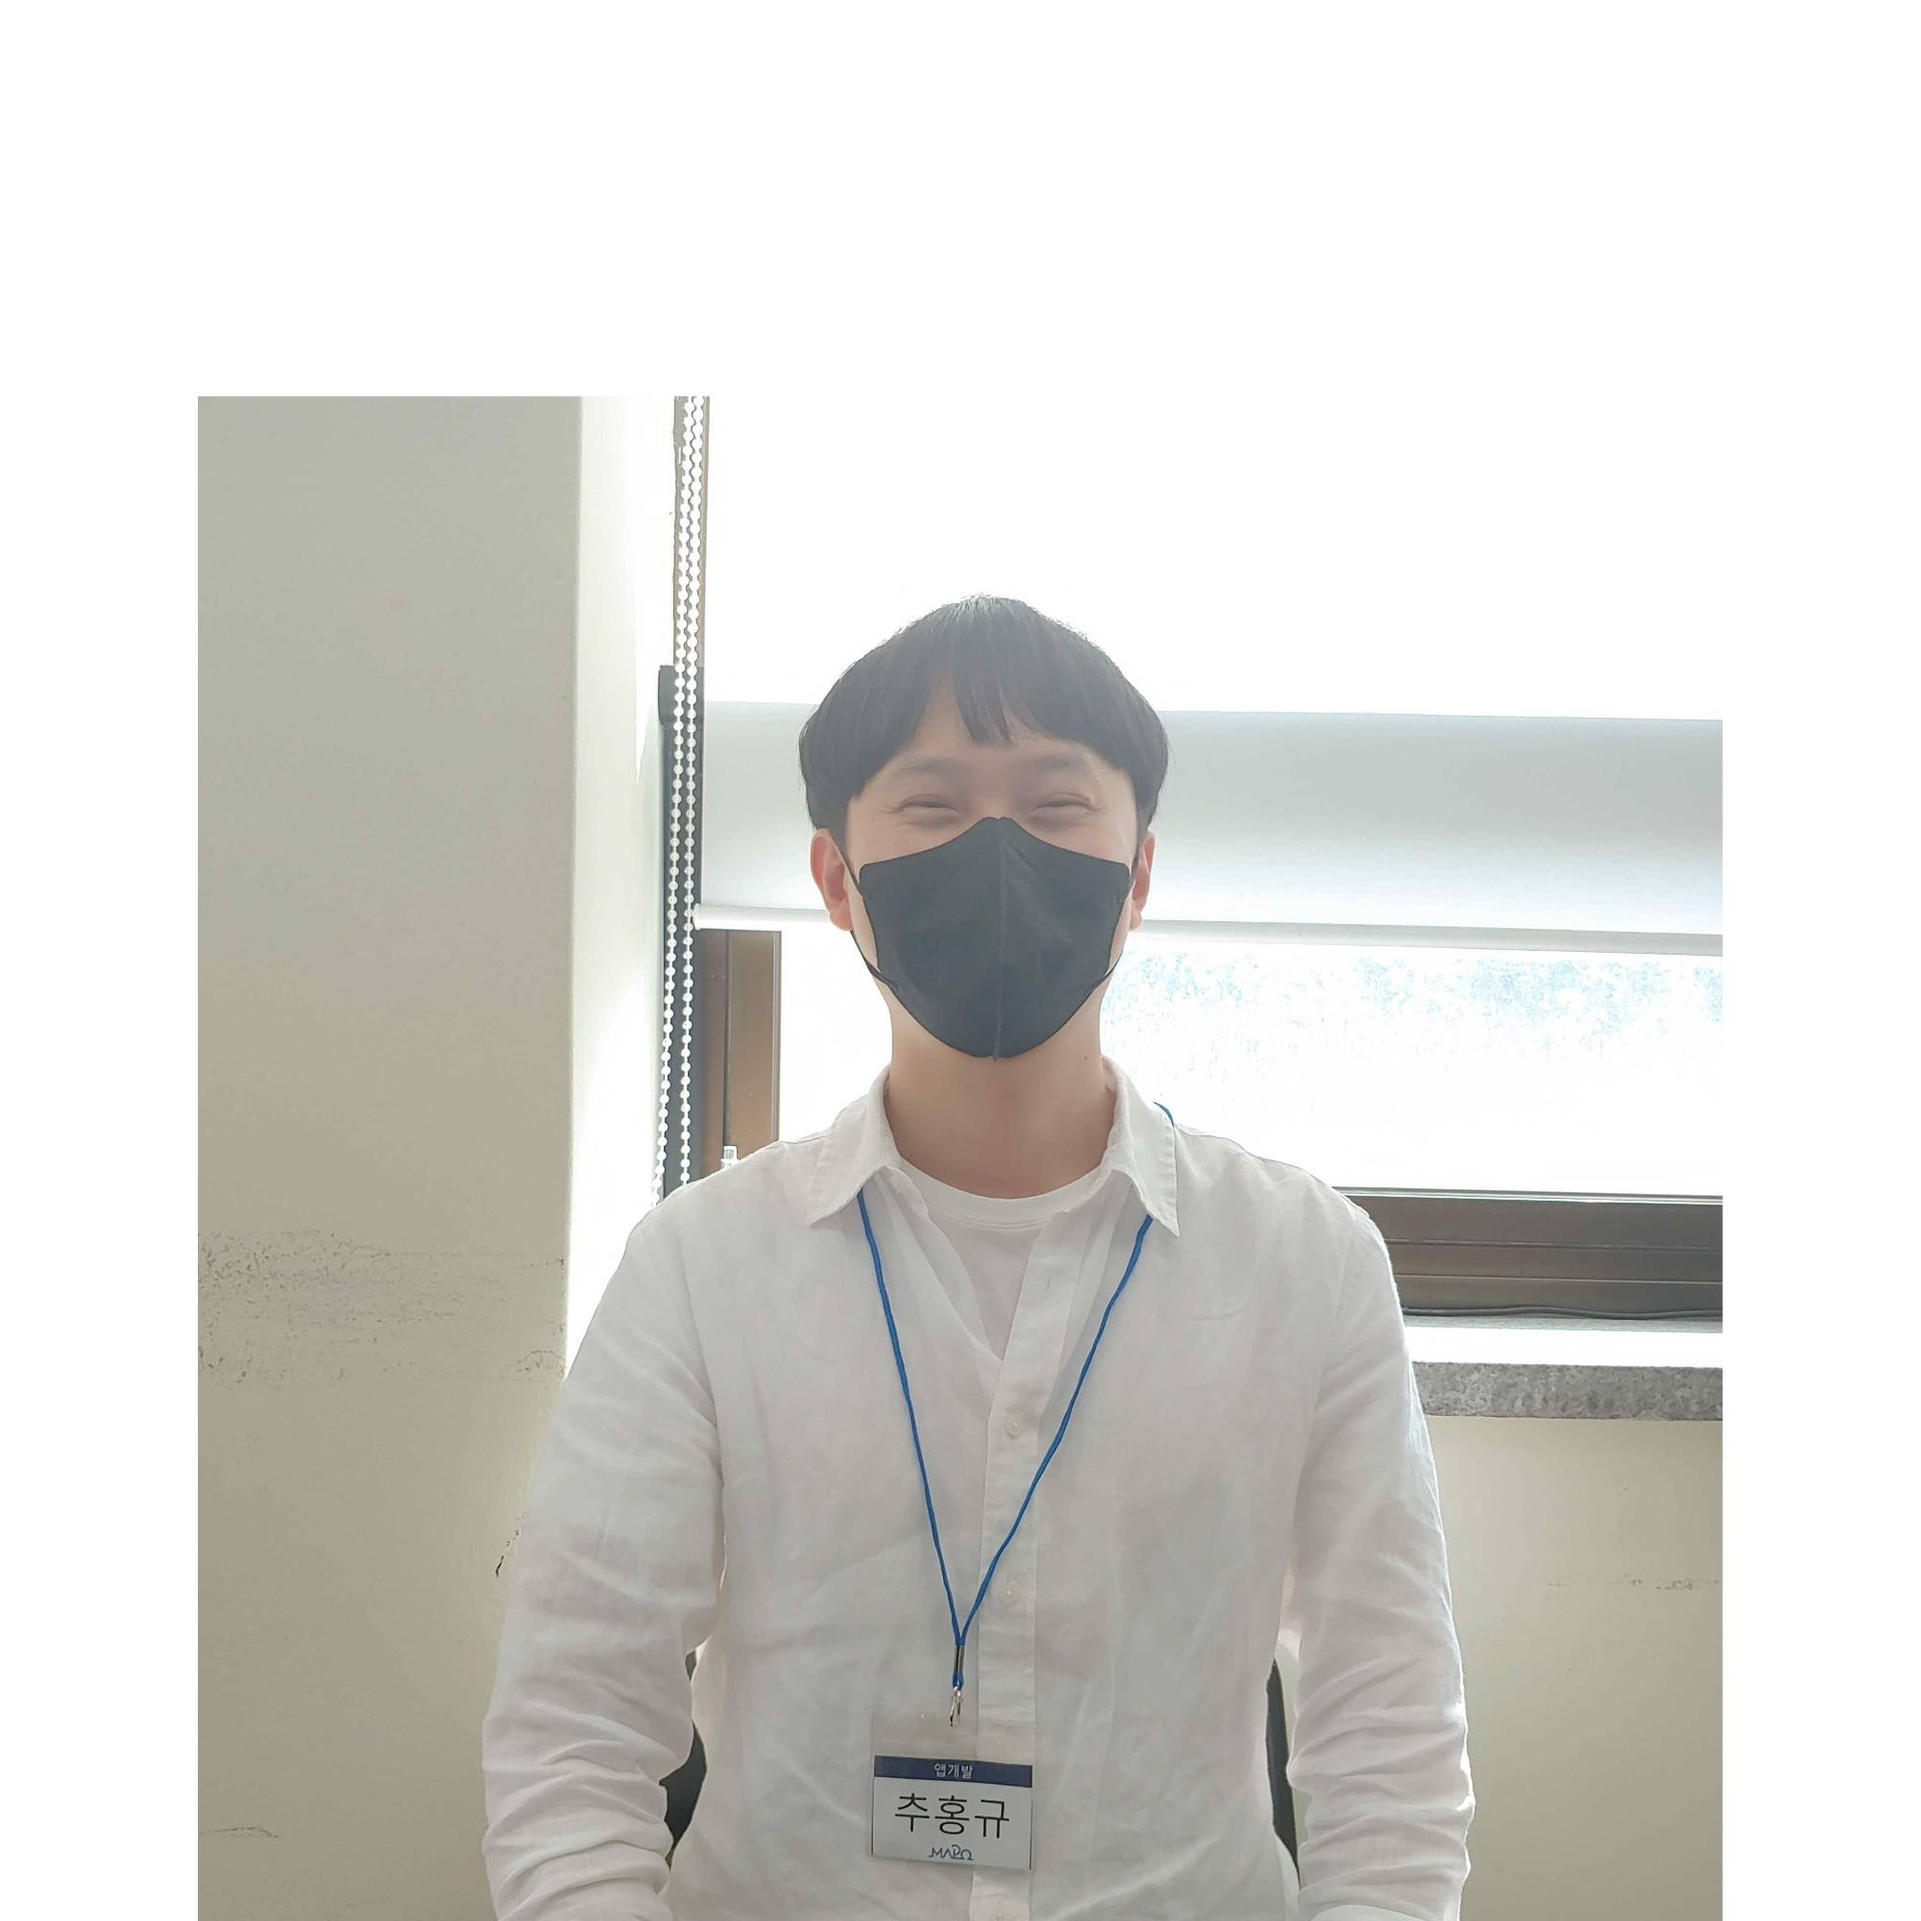
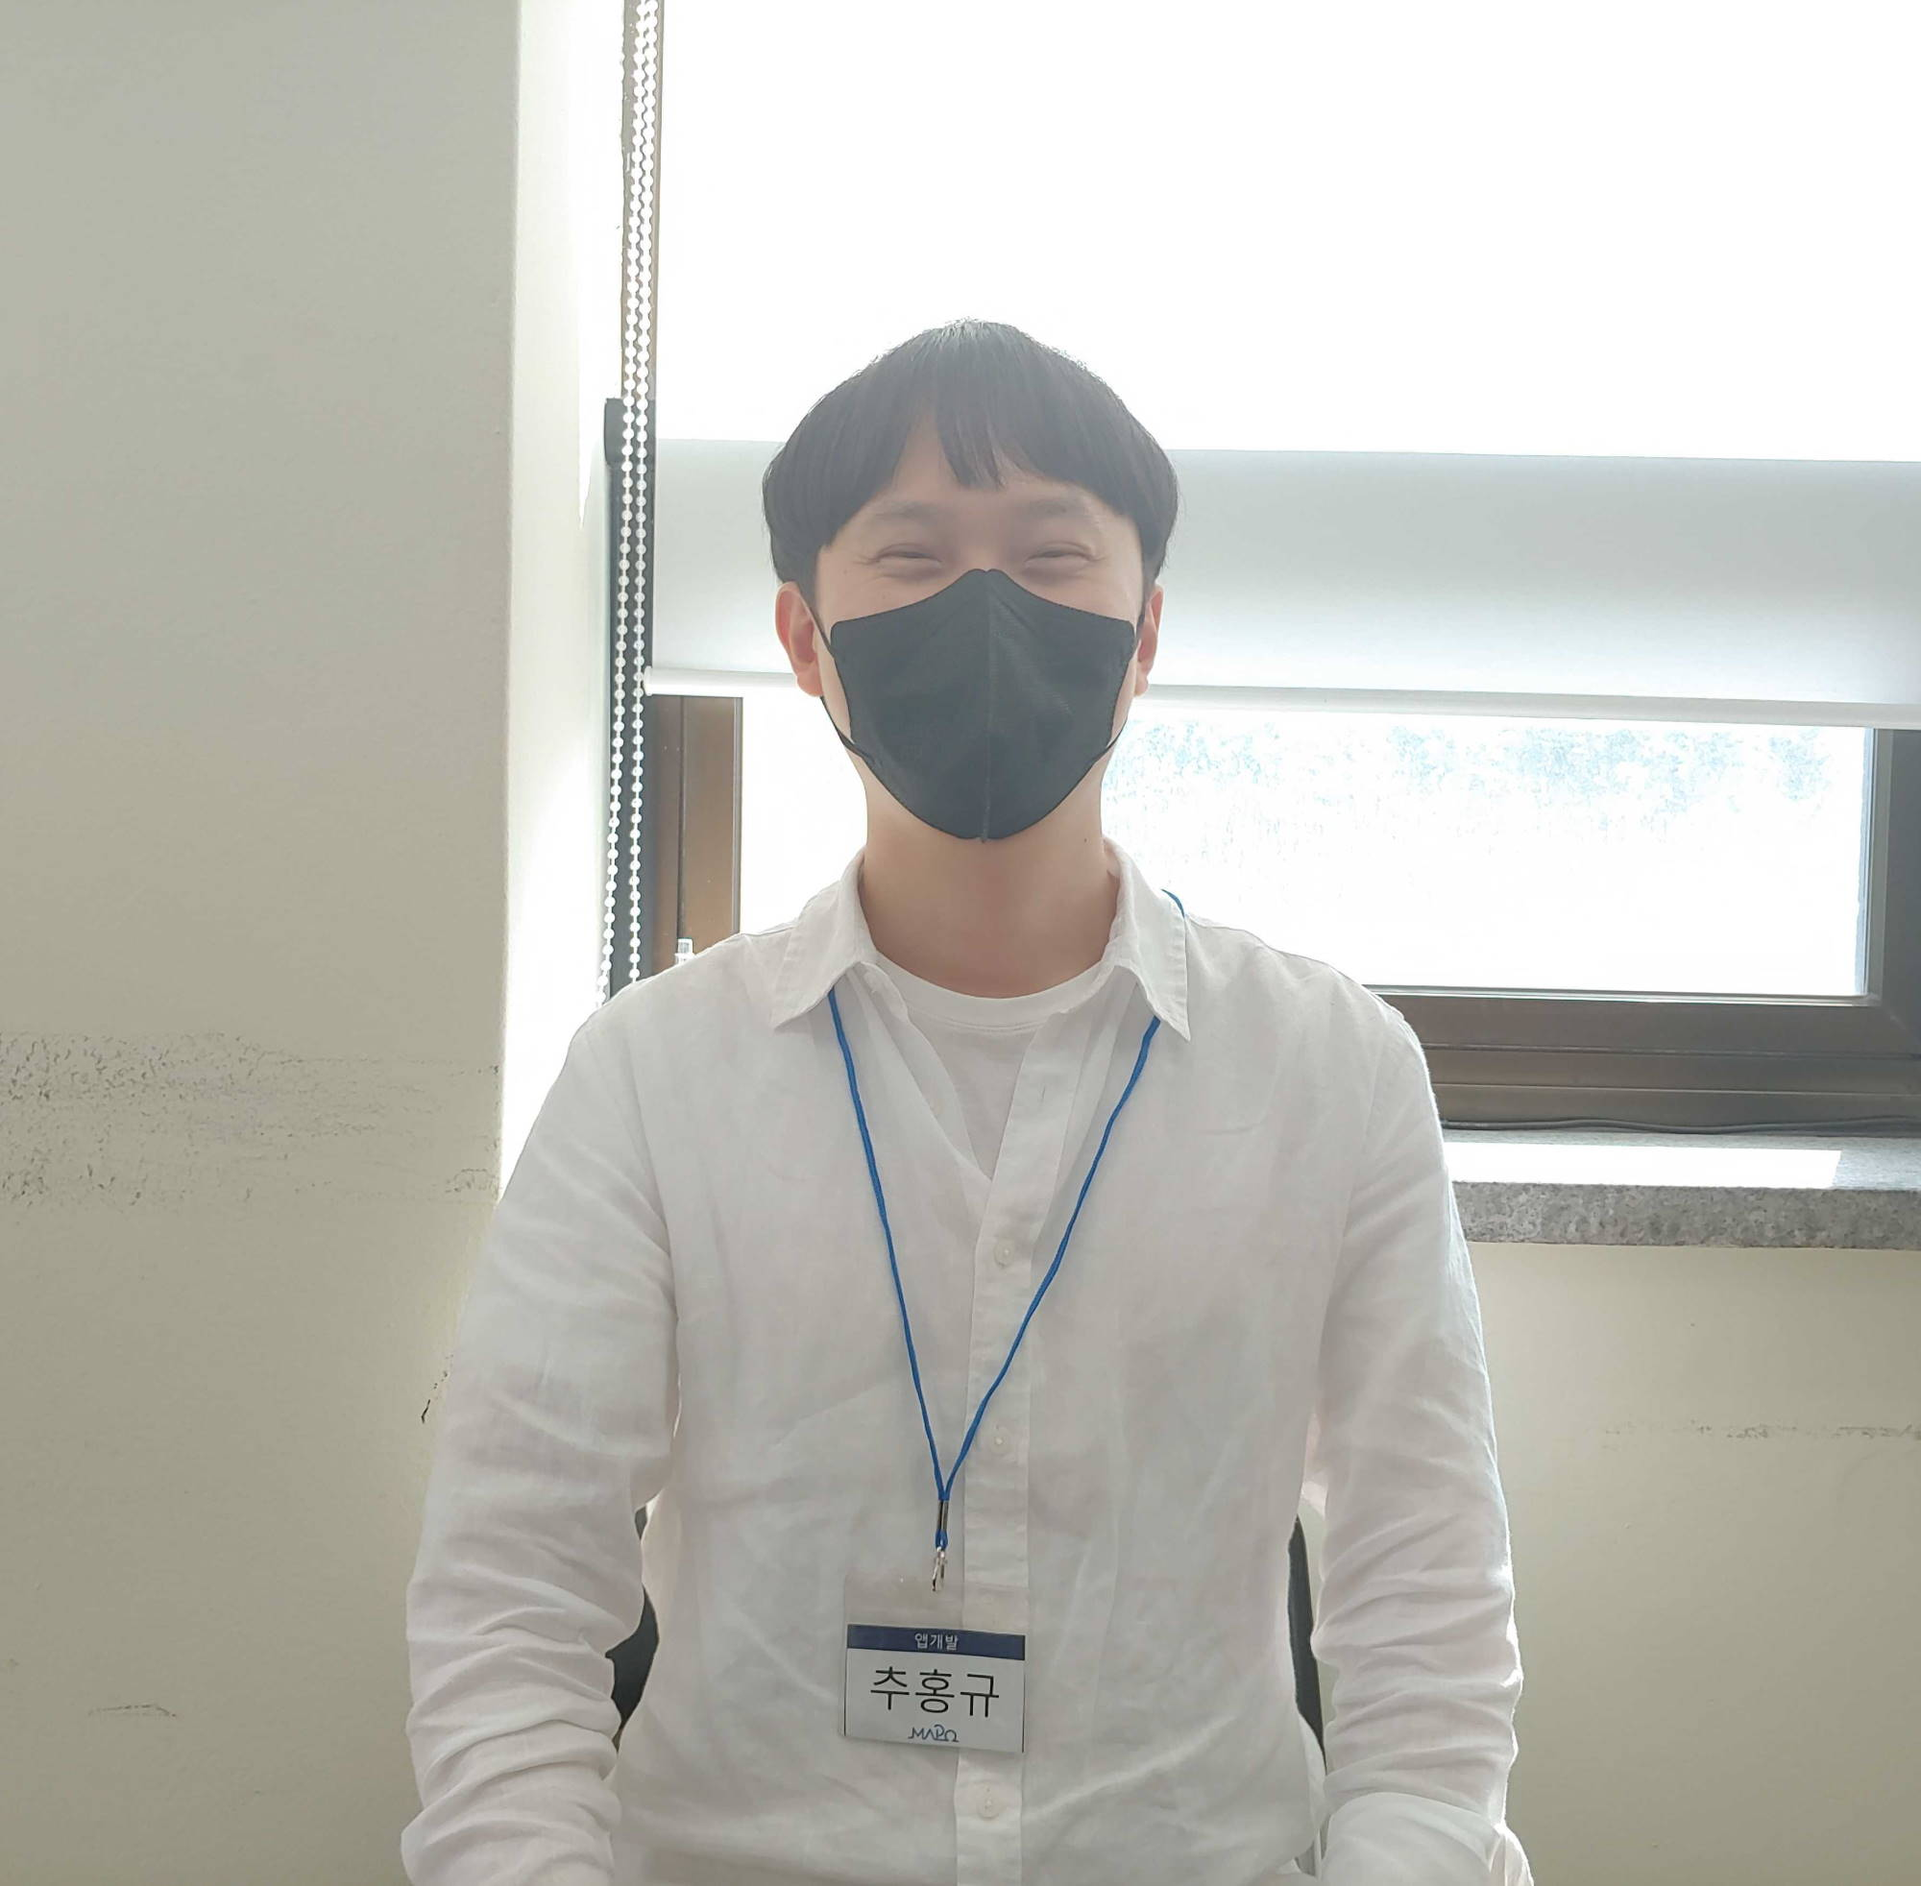
thats ok v0.4.3 update

diff --git a/index.html b/index.html
@@ -229,7 +229,7 @@
             <div class="box">
                 <div class="card">
                     <div class="imgpanel">
-                        <img src="images/interview_DevUIUXLd.jpg" alt="interview_img">
+                        <img style="width: 130%; height: 130%; top: -5%; left: -23%;" src="images/interview_DevUIUXLd.jpg" alt="interview_img">
                     </div>
                     <div class="awpanel">
                         <p class="answer">
@@ -245,7 +245,7 @@
             <div class="box">
                 <div class="card">
                     <div class="imgpanel">
-                        <img src="images/interView_DevFront.jpg" alt="interview_img">
+                        <img style="top: -30%; left: -52%;" src="images/interView_DevFront.jpg" alt="interview_img">
                     </div>
                     <div class="awpanel">
                         <p class="answer">
